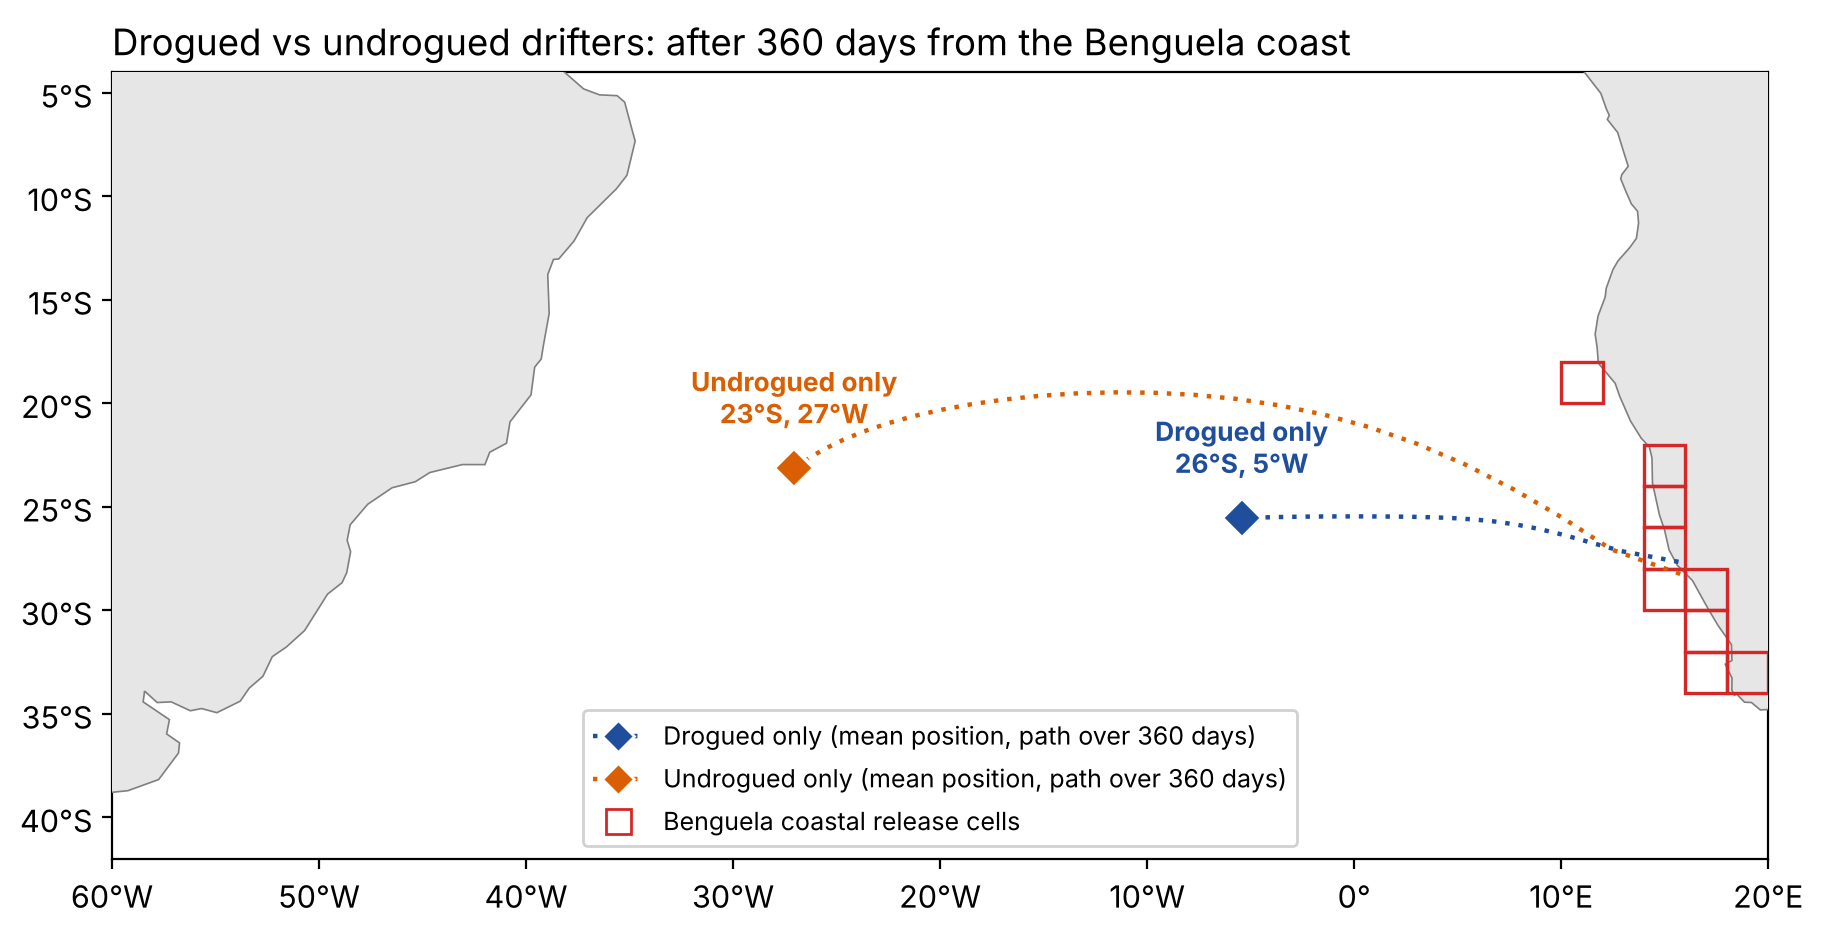
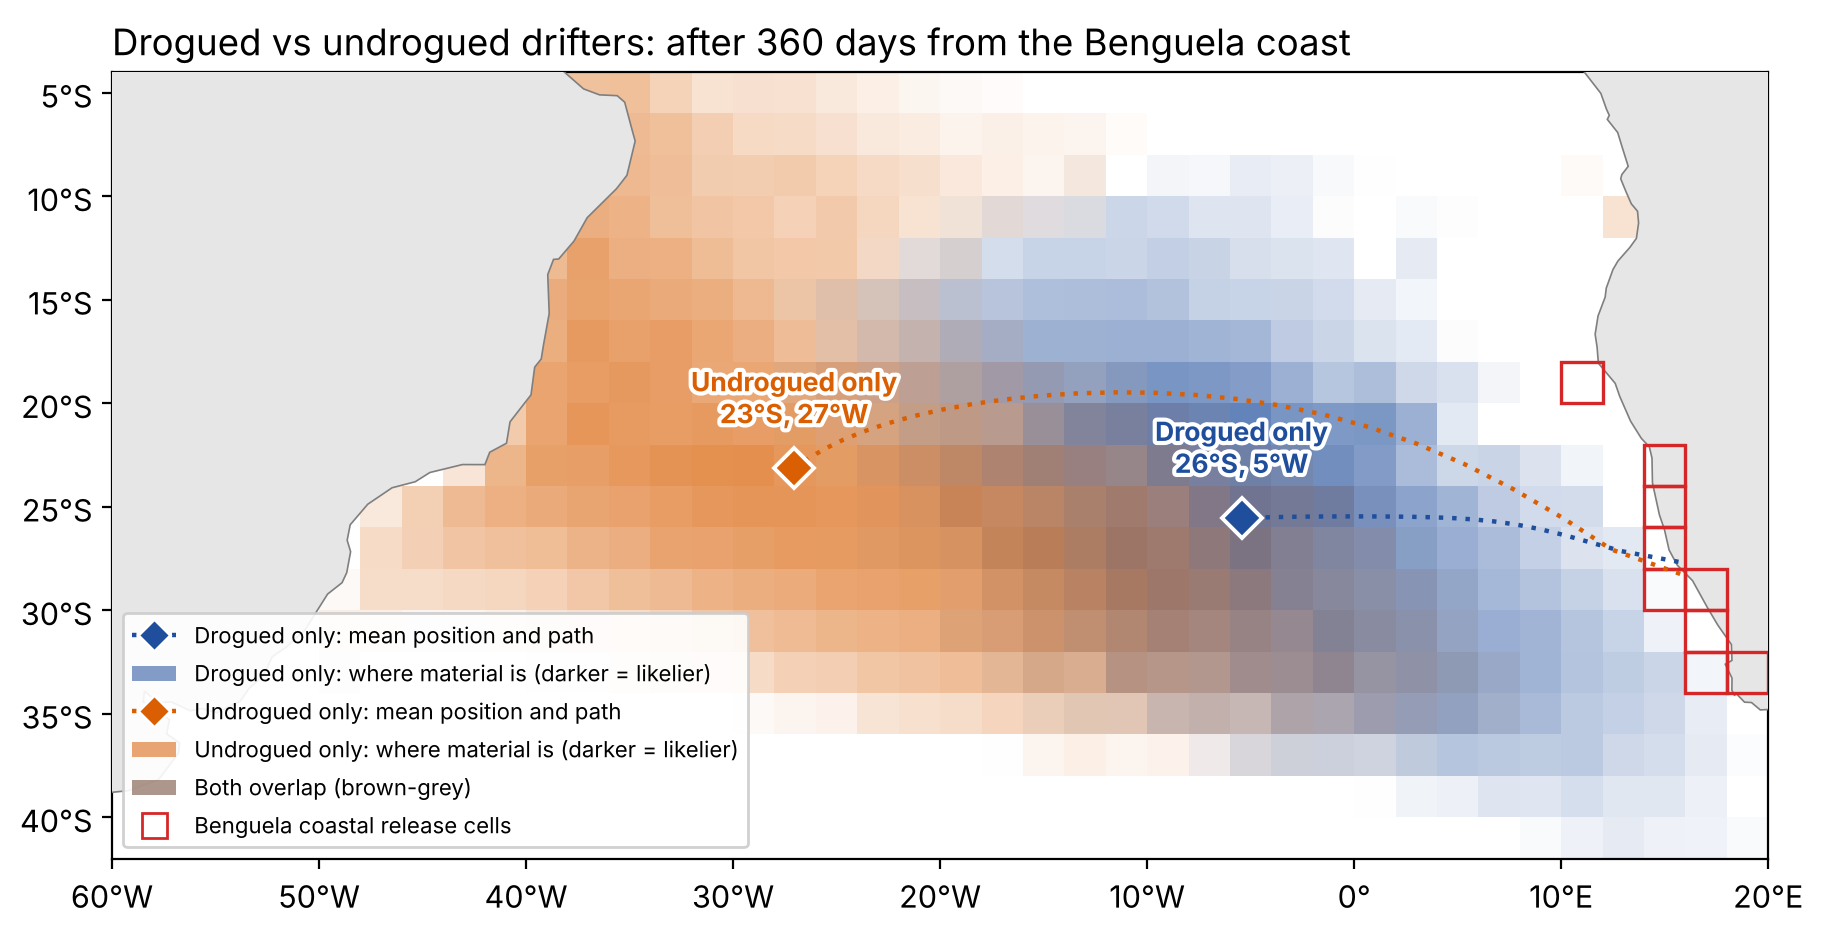
Overlay drogued and undrogued 360-day probability maps in the key colours
Claude-Session: https://claude.ai/code/session_017cYUDptRdEogUumeKyXLQC

diff --git a/src/linalg/drogue_compare.py b/src/linalg/drogue_compare.py
@@ -3,8 +3,8 @@ drogue_compare.py
 
 One map comparing where Benguela coastal material is after 360 days under the drogued-only and the
 undrogued-only 2 deg shrinkage matrices: the mean position (diamond) and its path over the year
-(dotted line) for each, with the coastal release cells (those with drifters in either subset) outlined. No probability shading, so the two
-can share one map.
+(dotted line) for each, over its probability map (one colour per subset, opacity rising with log
+probability), with the coastal release cells (those with drifters in either subset) outlined.
 
 Each matrix is fitted the way robustness.py fits its drogue settings: drifters split by drogue status
 at the START of each move (Week 4 issue e), alpha chosen on the train -> valid drifters of that subset
@@ -22,7 +22,10 @@ import csv
 import os
 import numpy as np
 import matplotlib.pyplot as plt
+import matplotlib.colors as mcolors
+import matplotlib.patheffects as pe
 from matplotlib.lines import Line2D
+from matplotlib.patches import Patch
 
 from src.common.config import FIGURES_DIR, RESULTS_DIR, load_region_bounds
 from src.gridding.coast import coastal_cells, land_fraction, land_paths
@@ -36,6 +39,7 @@ from src.inference.transition_data import TAU_DAYS, load_transitions, parent_sta
 from src.linalg.release_map import centre_of_mass
 
 DAYS = 360
+VMIN, VMAX, MAX_ALPHA = 1e-4, 0.03, 0.75  # heat map: probability per 2 deg cell shown, and darkest opacity
 CELL = 2.0
 SUBSETS = [  # (filter, label, colour, marker face)
     ("drogued", "Drogued only", "#1f4e9c", "#1f4e9c"),
@@ -67,11 +71,28 @@ def centre_path(P, release, region, steps):
     return np.array(path), x
 
 
+def heat_rgba(dist, shape, colour):
+    """One colour, opacity rising with log probability (1e-4 to 0.03 per cell), so two maps can overlay."""
+    p = dist[:-1].reshape(shape)
+    lo, hi = np.log10(VMIN), np.log10(VMAX)
+    a = np.clip((np.log10(np.maximum(p, 1e-12)) - lo) / (hi - lo), 0, 1)
+    a[p < VMIN] = 0
+    rgba = np.zeros(shape + (4,))
+    rgba[..., :3] = mcolors.to_rgb(colour)
+    rgba[..., 3] = MAX_ALPHA * a
+    return rgba
+
+
 def plot(region, zone, results, out_path):
     plt.rcParams.update({"font.size": 11})
     fig, ax = plt.subplots(figsize=(9, 4.8), layout="constrained")
-    draw_land(ax)
     lat_edges, lon_edges = grid_edges(region, CELL)
+    shape = (len(lat_edges) - 1, len(lon_edges) - 1)
+    extent = (lon_edges[0], lon_edges[-1], lat_edges[0], lat_edges[-1])
+    for res in results:
+        ax.imshow(heat_rgba(res["dist"], shape, res["colour"]), origin="lower", extent=extent,
+                  interpolation="nearest", zorder=1)
+    draw_land(ax)
     n_lon = len(lon_edges) - 1
     for c in zone:
         r, k = divmod(int(c), n_lon)
@@ -84,12 +105,15 @@ def plot(region, zone, results, out_path):
         ax.plot(path[-1, 1], path[-1, 0], marker="D", ms=10, mfc=colour, mec="white", mew=1.4, zorder=7)
         ax.annotate(f"{label}\n{abs(path[-1, 0]):.0f}°S, {abs(path[-1, 1]):.0f}°W", (path[-1, 1], path[-1, 0]),
                     xytext=(0, 14), textcoords="offset points", ha="center", va="bottom", fontsize=9.5,
-                    color=colour, fontweight="bold", zorder=8)
+                    color=colour, fontweight="bold", zorder=8,
+                    path_effects=[pe.withStroke(linewidth=3, foreground="white")])
         handles.append(Line2D([], [], color=colour, ls=(0, (1, 2)), lw=1.6, marker="D", ms=8, mfc=colour,
-                              mec="white", label=f"{label} (mean position, path over {DAYS} days)"))
+                              mec="white", label=f"{label}: mean position and path"))
+        handles.append(Patch(fc=colour, alpha=0.55, ec="none", label=f"{label}: where material is (darker = likelier)"))
+    handles.append(Patch(fc="#8a6a5c", alpha=0.7, ec="none", label="Both overlap (brown-grey)"))
     handles.append(Line2D([], [], color="#d62728", marker="s", ls="none", mfc="none", ms=9,
                           label="Benguela coastal release cells"))
-    ax.legend(handles=handles, loc="lower center", fontsize=9, framealpha=0.9)
+    ax.legend(handles=handles, loc="lower left", fontsize=8, ncol=1, framealpha=0.9)
     ax.set_xlim(region["lon_min"], region["lon_max"])
     ax.set_ylim(region["lat_min"], region["lat_max"])
     ax.set_aspect("equal")
@@ -111,7 +135,7 @@ if __name__ == "__main__":
         release = zone[drifters[zone] > 0]
         released.update(release.tolist())
         path, x = centre_path(P, release, region, DAYS // TAU_DAYS)
-        results.append({"label": label, "colour": colour, "path": path})
+        results.append({"label": label, "colour": colour, "path": path, "dist": x})
         rows.append({"drifters": filt, "alpha": round(alpha, 2), "n_moves": int(sub["drifter_id"].size),
                      "n_drifters": int(np.unique(sub["drifter_id"]).size), "release_cells": int(release.size),
                      "centre_lat_360d": round(float(path[-1, 0]), 3), "centre_lon_360d": round(float(path[-1, 1]), 3),
